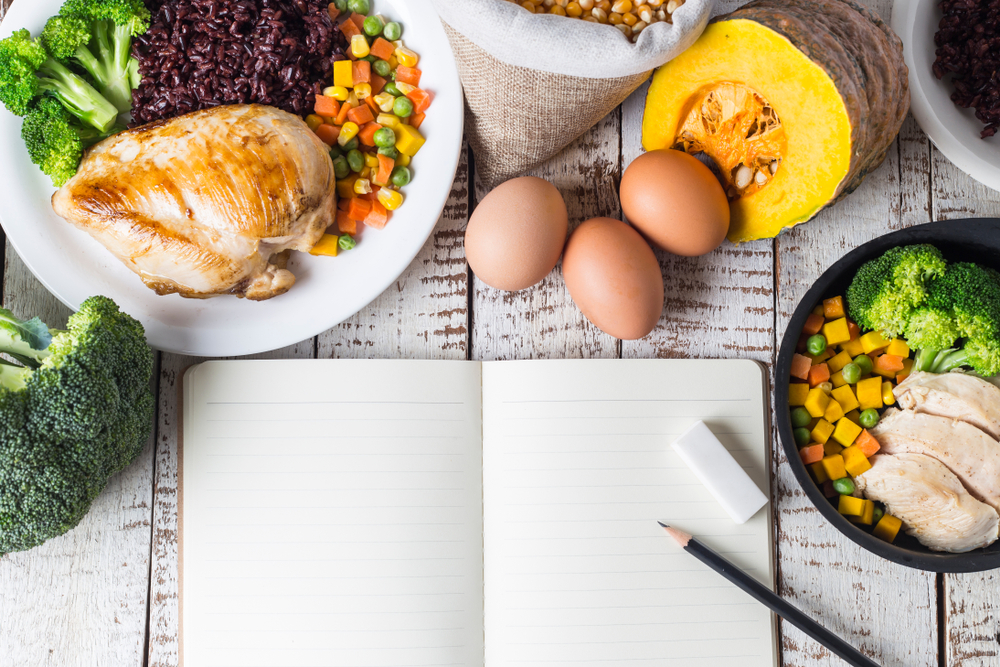
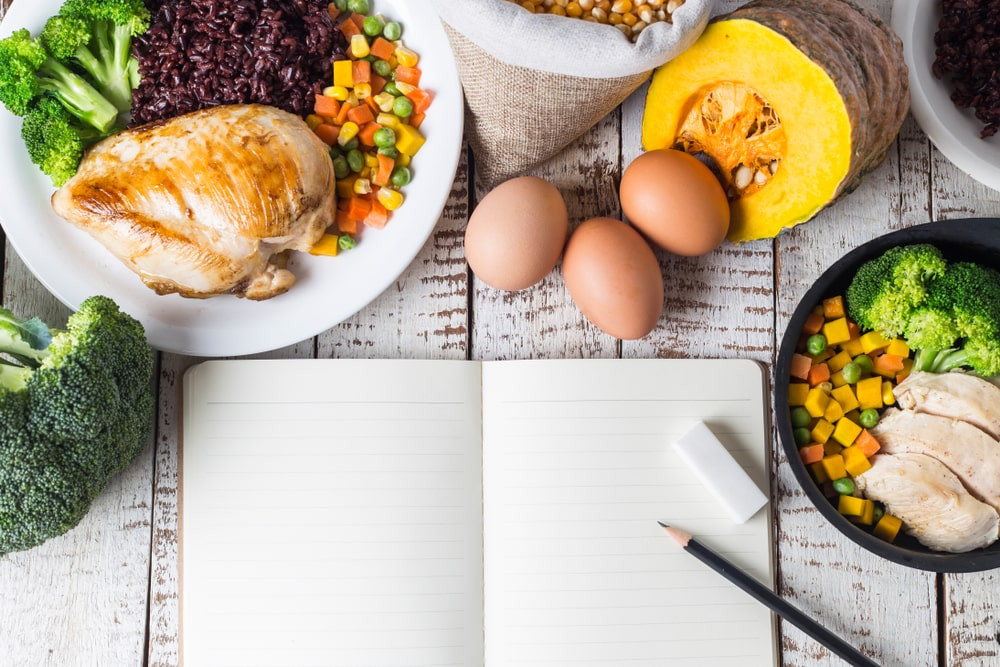
Compress images to reduce the site load time

diff --git a/index.html b/index.html
@@ -79,7 +79,7 @@
       <div class="container">
         <div class="grid-2">
           <div class="center">
-            <img src="./assests/about-square.png" alt="" class="img-about" />
+            <img src="./assests/about-square.jpg" alt="" class="img-about" />
           </div>
           <div>
             <h3 class="about-me">Sobre mim</h3>
